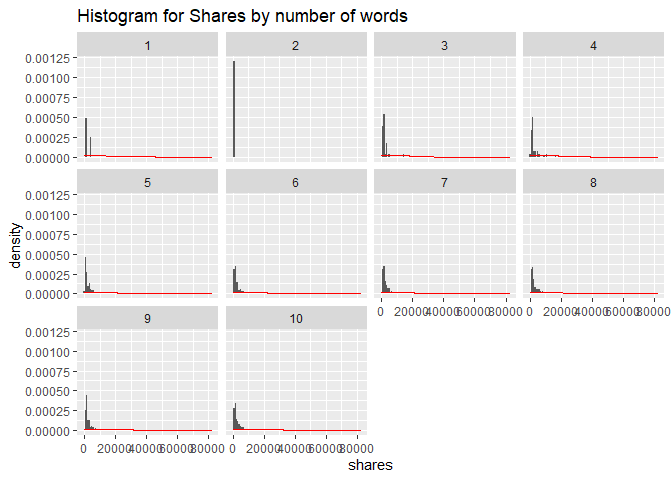
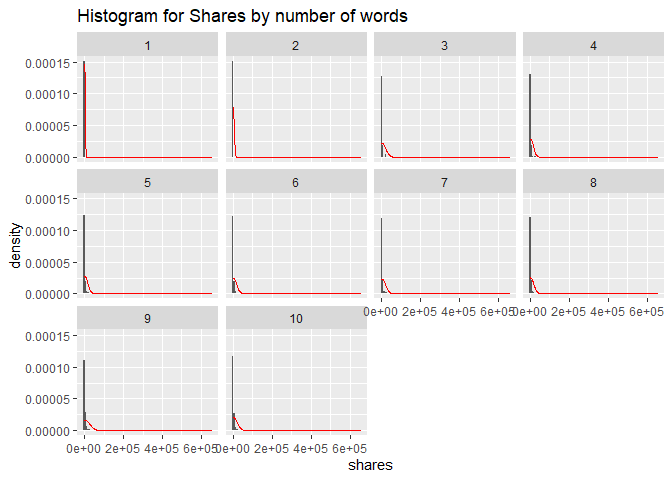
final document

diff --git a/Project-II.md b/Project-II.md
@@ -1,0 +1,351 @@
+Project II ST558
+================
+Pratap Adhikari
+10/9/2020
+
+# Introduction
+
+The project I am going to do is about the analysis of the Online News
+Popularity. .The articles were said to be published by
+[Mashable](www.mashable.com) . The data set were downloaded from this
+[link](https://archive.ics.uci.edu/ml/datasets/Online+News+Popularity) .
+The response variable is `shares` I will be analyzing the popularity by
+fitting the two different tree based models: + a (non ensemble) tree
+based model chosen using leave one out cross validation + (LOOCV) and a
+boosted tree model chosen using cross-validation.
+
+## Required packages
+
+The list of packages are: tidyverse, knitr, caret, gbm, rattle gbm,
+rmarkdown, ggplot2.
+
+## Attribute Information:
+
+Number of Attributes: 61 (58 predictive attributes, 2 non-predictive, 1
+goal field)
+
+### Attribute Information:
+
+0.  url: URL of the article (non-predictive)
+1.  timedelta: Days between the article publication and the dataset
+    acquisition (non-predictive)
+2.  n\_tokens\_title: Number of words in the title
+3.  n\_tokens\_content: Number of words in the content
+4.  n\_unique\_tokens: Rate of unique words in the content
+5.  n\_non\_stop\_words: Rate of non-stop words in the content
+6.  n\_non\_stop\_unique\_tokens: Rate of unique non-stop words in the
+    content
+7.  num\_hrefs: Number of links
+8.  num\_self\_hrefs: Number of links to other articles published by
+    Mashable
+9.  num\_imgs: Number of images
+10. num\_videos: Number of videos
+11. average\_token\_length: Average length of the words in the content
+12. num\_keywords: Number of keywords in the metadata
+13. data\_channel\_is\_lifestyle: Is data channel ‘Lifestyle’?
+14. data\_channel\_is\_entertainment: Is data channel ‘Entertainment’?
+15. data\_channel\_is\_bus: Is data channel ‘Business’?
+16. data\_channel\_is\_socmed: Is data channel ‘Social Media’?
+17. data\_channel\_is\_tech: Is data channel ‘Tech’?
+18. data\_channel\_is\_world: Is data channel ‘World’?
+19. kw\_min\_min: Worst keyword (min. shares)
+20. kw\_max\_min: Worst keyword (max. shares)
+21. kw\_avg\_min: Worst keyword (avg. shares)
+22. kw\_min\_max: Best keyword (min. shares)
+23. kw\_max\_max: Best keyword (max. shares)
+24. kw\_avg\_max: Best keyword (avg. shares)
+25. kw\_min\_avg: Avg. keyword (min. shares)
+26. kw\_max\_avg: Avg. keyword (max. shares)
+27. kw\_avg\_avg: Avg. keyword (avg. shares)
+28. self\_reference\_min\_shares: Min. shares of referenced articles in
+    Mashable
+29. self\_reference\_max\_shares: Max. shares of referenced articles in
+    Mashable
+30. self\_reference\_avg\_sharess: Avg. shares of referenced articles in
+    Mashable
+31. weekday\_is\_monday: Was the article published on a Monday?
+32. weekday\_is\_tuesday: Was the article published on a Tuesday?
+33. weekday\_is\_wednesday: Was the article published on a Wednesday?
+34. weekday\_is\_thursday: Was the article published on a Thursday?
+35. weekday\_is\_friday: Was the article published on a Friday?
+36. weekday\_is\_saturday: Was the article published on a Saturday?
+37. weekday\_is\_sunday: Was the article published on a Sunday?
+38. is\_weekend: Was the article published on the weekend?
+39. LDA\_00: Closeness to LDA topic 0
+40. LDA\_01: Closeness to LDA topic 1
+41. LDA\_02: Closeness to LDA topic 2
+42. LDA\_03: Closeness to LDA topic 3
+43. LDA\_04: Closeness to LDA topic 4
+44. global\_subjectivity: Text subjectivity
+45. global\_sentiment\_polarity: Text sentiment polarity
+46. global\_rate\_positive\_words: Rate of positive words in the content
+47. global\_rate\_negative\_words: Rate of negative words in the content
+48. rate\_positive\_words: Rate of positive words among non-neutral
+    tokens
+49. rate\_negative\_words: Rate of negative words among non-neutral
+    tokens
+50. avg\_positive\_polarity: Avg. polarity of positive words
+51. min\_positive\_polarity: Min. polarity of positive words
+52. max\_positive\_polarity: Max. polarity of positive words
+53. avg\_negative\_polarity: Avg. polarity of negative words
+54. min\_negative\_polarity: Min. polarity of negative words
+55. max\_negative\_polarity: Max. polarity of negative words
+56. title\_subjectivity: Title subjectivity
+57. title\_sentiment\_polarity: Title polarity
+58. abs\_title\_subjectivity: Absolute subjectivity level
+59. abs\_title\_sentiment\_polarity: Absolute polarity level
+60. shares: Number of shares (target)
+
+# Read in Data set
+
+``` r
+#Read the data
+popData<- read_csv("OnlineNewsPopularity.csv")
+```
+
+## Processing
+
+``` r
+# checking if any missing values in the raw data
+anyNA(popData)
+```
+
+    ## [1] FALSE
+
+FALSE indicates there are no missing values. Next, to split the train
+and test set
+
+# For the weekday monday
+
+``` r
+#data table
+
+popData$num_keywords<- as.factor(popData$num_keywords)
+
+popData<- popData %>% select(-is_weekend, -1)
+
+#define weekdays
+weekDays<- c("monday", "tuesday", "wednesday", "thursday", "friday", "saturday", "sunday")
+
+
+if(params$weekday== weekDays[1]) { 
+  Analysis=  popData$weekday_is_monday
+  } else if (params$weekday== weekDays[2]){
+    Analysis= popData$weekday_is_tuesday
+  } else if (params$weekday== weekDays[3]){
+    Analysis= popData$weekday_is_wednesday
+  } else if (params$weekday== weekDays[4]){
+    Analysis= popData$weekday_is_thursday
+  } else if (params$weekday== weekDays[5]){
+    Analysis= popData$weekday_is_friday
+  } else if (params$weekday== weekDays[6]){
+    Analysis= popData$weekday_is_saturday
+  } else if (params$weekday== weekDays[7]){
+    Analysis= popData$weekday_is_sunday
+  } else {
+    Analysis="error"
+  }
+
+finalData<- popData %>% mutate(Analysis) 
+popDayData<- popData  %>% filter(Analysis == params$value) 
+popDayData
+```
+
+    ## # A tibble: 6,661 x 59
+    ##    timedelta n_tokens_title n_tokens_content n_unique_tokens n_non_stop_words
+    ##        <dbl>          <dbl>            <dbl>           <dbl>            <dbl>
+    ##  1       731             12              219           0.664             1.00
+    ##  2       731              9              255           0.605             1.00
+    ##  3       731              9              211           0.575             1.00
+    ##  4       731              9              531           0.504             1.00
+    ##  5       731             13             1072           0.416             1.00
+    ##  6       731             10              370           0.560             1.00
+    ##  7       731              8              960           0.418             1.00
+    ##  8       731             12              989           0.434             1.00
+    ##  9       731             11               97           0.670             1.00
+    ## 10       731             10              231           0.636             1.00
+    ## # ... with 6,651 more rows, and 54 more variables:
+    ## #   n_non_stop_unique_tokens <dbl>, num_hrefs <dbl>, num_self_hrefs <dbl>,
+    ## #   num_imgs <dbl>, num_videos <dbl>, average_token_length <dbl>,
+    ## #   num_keywords <fct>, data_channel_is_lifestyle <dbl>,
+    ## #   data_channel_is_entertainment <dbl>, data_channel_is_bus <dbl>,
+    ## #   data_channel_is_socmed <dbl>, data_channel_is_tech <dbl>,
+    ## #   data_channel_is_world <dbl>, kw_min_min <dbl>, kw_max_min <dbl>,
+    ## #   kw_avg_min <dbl>, kw_min_max <dbl>, kw_max_max <dbl>, kw_avg_max <dbl>,
+    ## #   kw_min_avg <dbl>, kw_max_avg <dbl>, kw_avg_avg <dbl>,
+    ## #   self_reference_min_shares <dbl>, self_reference_max_shares <dbl>,
+    ## #   self_reference_avg_sharess <dbl>, weekday_is_monday <dbl>,
+    ## #   weekday_is_tuesday <dbl>, weekday_is_wednesday <dbl>,
+    ## #   weekday_is_thursday <dbl>, weekday_is_friday <dbl>,
+    ## #   weekday_is_saturday <dbl>, weekday_is_sunday <dbl>, LDA_00 <dbl>,
+    ## #   LDA_01 <dbl>, LDA_02 <dbl>, LDA_03 <dbl>, LDA_04 <dbl>,
+    ## #   global_subjectivity <dbl>, global_sentiment_polarity <dbl>,
+    ## #   global_rate_positive_words <dbl>, global_rate_negative_words <dbl>,
+    ## #   rate_positive_words <dbl>, rate_negative_words <dbl>,
+    ## #   avg_positive_polarity <dbl>, min_positive_polarity <dbl>,
+    ## #   max_positive_polarity <dbl>, avg_negative_polarity <dbl>,
+    ## #   min_negative_polarity <dbl>, max_negative_polarity <dbl>,
+    ## #   title_subjectivity <dbl>, title_sentiment_polarity <dbl>,
+    ## #   abs_title_subjectivity <dbl>, abs_title_sentiment_polarity <dbl>,
+    ## #   shares <dbl>
+
+``` r
+# Create train and test data set.
+set.seed(2001)
+train<- sample(1:nrow(popDayData), size = nrow(popDayData) *0.7)
+test<- dplyr::setdiff(1:nrow(popDayData), train)
+
+popDataFinalTrain<- popDayData[train, -1]
+popDataFinalTest<- popDayData[test,-1]
+```
+
+# Analysis
+
+## Summary about the train data
+
+``` r
+sumryData<- popDataFinalTrain %>% select(num_imgs, num_videos, n_tokens_content, global_subjectivity,  global_rate_positive_words, paste0("weekday_is_", params$weekday) , num_keywords, shares)
+
+
+# summary statistics of `shares` variable
+summary(sumryData$shares)
+```
+
+    ##     Min.  1st Qu.   Median     Mean  3rd Qu.     Max. 
+    ##      1.0    912.2   1400.0   3774.7   2700.0 690400.0
+
+``` r
+#Number of key words
+table(sumryData$num_keywords)
+```
+
+    ## 
+    ##   1   2   3   4   5   6   7   8   9  10 
+    ##   1   5  63 278 634 880 871 702 539 689
+
+## Plots
+
+### scatter plots
+
+``` r
+#scatter plot
+#number of images vs shares
+ggplot(sumryData, aes(x=num_imgs, y=shares, by=num_keywords)) + geom_point(aes(color=num_keywords)) + ggtitle("Number of images vs shares") + labs(x=" Number of images")
+```
+
+![](Project-II_files/figure-gfm/unnamed-chunk-6-1.png)<!-- -->
+
+``` r
+# +  geom_smooth(method='lm', color='green')
+
+#number of videos vs shares
+ggplot(sumryData, aes(x=num_videos, y=shares, by=num_keywords)) + geom_point(aes(color=num_keywords))  + labs(x="Number of Videos", y="Shares", title= "Number of videos vs shares" )+  scale_fill_discrete(name="Number of keywords")
+```
+
+![](Project-II_files/figure-gfm/unnamed-chunk-6-2.png)<!-- -->
+
+### Bar plot
+
+``` r
+ggplot(sumryData, aes(x=num_imgs)) + geom_bar(aes(fill=num_keywords), position = "dodge") + xlab("Number of images") + scale_fill_discrete(name="Number of keywords")
+```
+
+![](Project-II_files/figure-gfm/unnamed-chunk-7-1.png)<!-- -->
+
+``` r
+ggplot(sumryData, aes(x=num_videos)) + geom_bar(aes(fill=num_keywords), position = "dodge") + xlab("Number of videos") + scale_fill_discrete(name="Number of keywords")
+```
+
+![](Project-II_files/figure-gfm/unnamed-chunk-7-2.png)<!-- -->
+
+### Box plot
+
+``` r
+ggplot(sumryData, aes(x=num_keywords, y=n_tokens_content)) + geom_boxplot() + geom_jitter(aes(color=num_keywords)) + ggtitle("Boxplot for Number of words in content") + xlab("Number of Keywords") + ylab("Number of words in the content")
+```
+
+![](Project-II_files/figure-gfm/unnamed-chunk-8-1.png)<!-- -->
+
+### Histogram
+
+``` r
+ggplot(sumryData, aes(shares, ..density.., fill=num_keywords)) + geom_histogram(bins = 100) + geom_density(col="red", lwd=1, adjust=50, alpha=0.5) + ggtitle("Histogram for Shares")
+```
+
+![](Project-II_files/figure-gfm/unnamed-chunk-9-1.png)<!-- -->
+
+``` r
+ggplot(sumryData, aes(shares, ..density..)) + geom_histogram(bins = 100) + geom_density(col="red", lwd=0.5, adjust=50) +facet_wrap(~num_keywords, ) + ggtitle("Histogram for Shares by number of words")
+```
+
+![](Project-II_files/figure-gfm/unnamed-chunk-9-2.png)<!-- -->
+
+## Use of `Train` function and method=`rpart`
+
+``` r
+popFit<- train(shares~ ., data=popDataFinalTrain[600:700, ],
+             method="rpart",
+             preProcess= c("center", "scale"),
+             trControl= trainControl(method = "LOOCV"))
+```
+
+``` r
+plot(popFit)
+```
+
+![](Project-II_files/figure-gfm/unnamed-chunk-11-1.png)<!-- -->
+
+``` r
+#plot(popFit$finalModel); text(popFit$finalModel, pretty = 1, cex=0.8)
+fancyRpartPlot(popFit$finalModel)
+```
+
+![](Project-II_files/figure-gfm/unnamed-chunk-11-2.png)<!-- -->
+
+### Prediction
+
+``` r
+predpop<- predict(popFit, newdata= dplyr::select(popDataFinalTest, -shares) )
+
+#RMSE
+treeRMSE<- sqrt(mean(predpop - popDataFinalTest$shares)^2)
+```
+
+# 
+
+## Boosted Tree method:
+
+``` r
+#fit the model
+boostFit<- gbm(shares~ ., data=popDataFinalTrain[1:50,], 
+              distribution = "gaussian", 
+              n.trees = 10, 
+              shrinkage = 0.1, 
+              interaction.depth = 4)
+
+#prediction
+boostPred<- predict(boostFit, newdata= dplyr::select(popDataFinalTest, -shares), 
+                    n.trees=10)
+
+#RMSE value
+boostRMSE<- sqrt(mean(boostPred - popDataFinalTest$shares)^2 )
+```
+
+### compare RMSE values (root of test prediction error)
+
+``` r
+#table the RMSE from both of the model fits
+RMSE<- c(boost=boostRMSE, tree_based= treeRMSE)
+
+kable(as.data.frame( RMSE), caption = "RMSE table")
+```
+
+|             |       RMSE |
+| :---------- | ---------: |
+| boost       | 3205.93728 |
+| tree\_based |   98.34542 |
+
+RMSE table
+
+From the above table the model having lowest value of RMSE is chosen to
+be appropriate to fit the data set.
